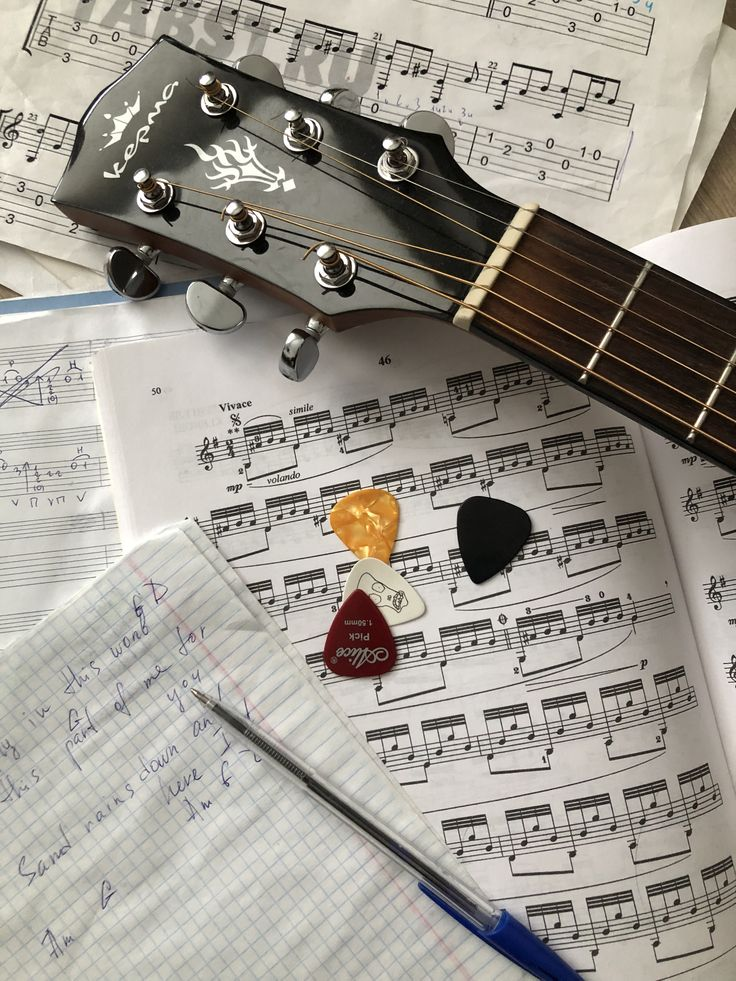
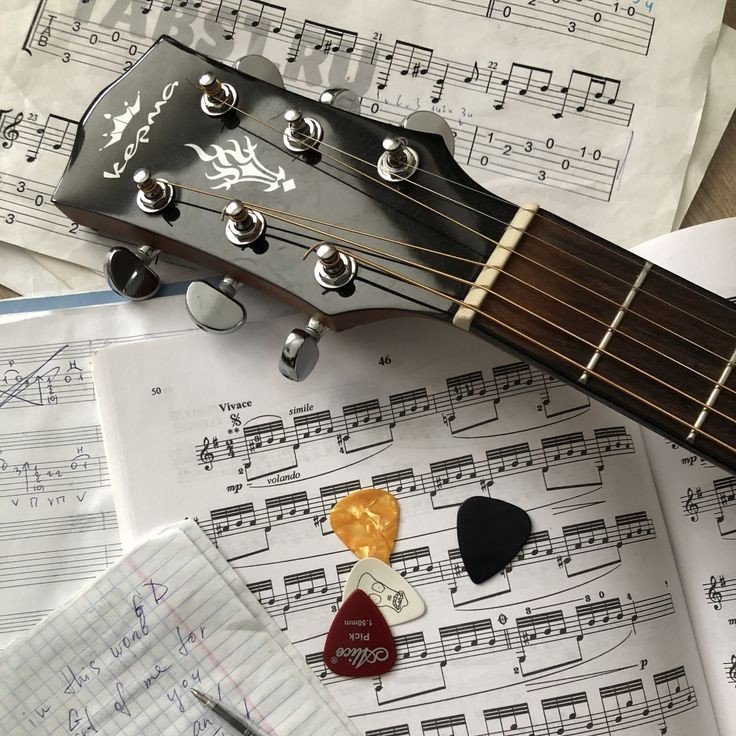
fixed images on homepage and added schedule page

diff --git a/guitarcoach/src/pages/SchedulePage.tsx b/guitarcoach/src/pages/SchedulePage.tsx
@@ -1,0 +1,98 @@
+import "../style/SchedulePage.css"
+
+function SchedulePage() {
+    return (
+        <div className="schedule-page">
+            <header className="schedule-header">
+                <div className="container">
+                    <div className="logo">
+                        GuitarCoach
+                    </div>
+                    <nav className='navbar'>
+                        <ul className='navbar-list'>
+                            <li><a href='/'>Coach</a></li>
+                            <li><a href='/'>Find Songs</a></li>
+                            <li><a href='/'>Tasks</a></li>
+                            <li>
+                                <button onClick={() => { window.location.href = '/profile'; }} className="profile-button">
+                                    Profile
+                                </button>
+                            </li>
+                        </ul>
+                    </nav>
+                </div>
+            </header>
+
+            <div className="schedule-container">
+                <h1 className="schedule-title"> Weekly Schedule </h1>
+                <div className="schedule-grid">
+                    <div className="day-column">
+                        <div className="day-title"> Sunday </div>
+                        <ul className="tasks-list">
+                            <li className="task-item"> Bar Chords </li>
+                            <li className="task-item"> Strumming Patterns </li>
+                        </ul>
+                    </div>
+
+                    <div className="day-column">
+                        <div className="day-title"> Monday </div>
+                        <ul className="tasks-list">
+                            <li className="task-item"> Bar Chords </li>
+                            <li className="task-item"> Strumming Patterns </li>
+                        </ul>
+                    </div>
+
+                    <div className="day-column">
+                        <div className="day-title"> Tuesday </div>
+                        <ul className="tasks-list">
+                            <li className="task-item"> Bar Chords </li>
+                            <li className="task-item"> Strumming Patterns </li>
+                        </ul>
+                    </div>
+
+                    <div className="day-column">
+                        <div className="day-title"> Wednesday </div>
+                        <ul className="tasks-list">
+                            <li className="task-item"> Bar Chords </li>
+                            <li className="task-item"> Strumming Patterns </li>
+                        </ul>
+                    </div>
+
+                    <div className="day-column">
+                        <div className="day-title"> Thursday </div>
+                        <ul className="tasks-list">
+                            <li className="task-item"> Bar Chords </li>
+                            <li className="task-item"> Strumming Patterns </li>
+                        </ul>
+                    </div>
+
+                    <div className="day-column">
+                        <div className="day-title"> Friday </div>
+                        <ul className="tasks-list">
+                            <li className="task-item"> Bar Chords </li>
+                            <li className="task-item"> Strumming Patterns </li>
+                        </ul>
+                    </div>
+
+                    <div className="day-column">
+                        <div className="day-title"> Saturday </div>
+                        <ul className="tasks-list">
+                            <li className="task-item"> Bar Chords </li>
+                            <li className="task-item"> Strumming Patterns </li>
+                        </ul>
+                    </div>
+                </div>
+            </div>
+
+            <footer className="schedule-footer">
+                <div className="footer-container">
+                    <div className="footer-section">
+                        <h3>Contact Us</h3>
+                    </div>
+                </div>
+            </footer>
+        </div>
+    )
+}
+
+export default SchedulePage

diff --git a/guitarcoach/src/style/HomePage.css b/guitarcoach/src/style/HomePage.css
@@ -79,9 +79,9 @@
     text-align: center;
 }
 
-.guitar1 {
+.home {
     height: auto;
-    width: 95%;
+    width: 97%;
     border-radius: 5px;
 }
 
@@ -93,12 +93,14 @@
     margin-top: 80px;
     font-size: 32px;
     font-weight: bold;
+    max-width: 400px;
 }
 
 .features-list {
     display: flex;
     gap: 80px;
     justify-content: center;
+    flex-wrap: wrap;
 }
 
 .feature-item {
@@ -111,11 +113,15 @@
     border-radius: 5px;
     display: flex;
     justify-content: center;
+    width: 500px;
+    height: 500px;
+    overflow: hidden;
 }
 
 .feature-item-photo img {
     height: auto;
     width: 100%;
+    object-fit: cover;
 }
 
 .feature-item-title {
@@ -130,6 +136,12 @@
     margin-top: 10px;
     font-size: 16px;
     justify-content: center;
-    width: auto;
-    max-width: 100%;
+    flex-wrap: wrap;
+    max-width: 500px;
+}
+
+.home-footer {
+    background-color: #f8f9fa;
+    padding: 50px 20px;
+    margin-top: 50px;
 }

diff --git a/guitarcoach/src/style/SchedulePage.css b/guitarcoach/src/style/SchedulePage.css
@@ -1,0 +1,51 @@
+* {
+    margin: 0;
+    padding: 0;
+    box-sizing: border-box;
+}
+
+.schedule-container {
+    max-width: 1400px;
+    margin: 0 auto;
+    background-color: white;
+    border-radius: 8px;
+    box-shadow: 0 2px 4px rgba(0,0,0,0.1);
+    overflow-x: auto;
+}
+
+.schedule-title {
+    text-align: center;
+}
+
+.schedule-grid {
+    display: grid;
+    grid-template-columns: repeat(7, 1fr);
+    min-width: 875px;
+}
+
+.day-column {
+    border: 1px solid #ddd;
+    padding: 10px;
+    border-right: 1px solid #e0e0e0;
+    min-height: 500px;
+}
+
+.day-title {
+    background-color: #f8f9fa;
+    padding: 16px;
+    font-weight: 600;
+    font-size: 1.1rem;
+    text-align: center;
+    border-bottom: 2px solid #e0e0e0;
+}
+
+.tasks-list {
+    padding: 16px
+}
+
+.tasks-list::before {
+    position: absolute;
+    left: 4px;
+    color: #666;
+    font-weight: bold;
+}

diff --git a/guitarcoach/src/pages/HomePage.tsx b/guitarcoach/src/pages/HomePage.tsx
@@ -75,7 +75,7 @@ function HomePage() {
                 </div> 
 
                 <div className='feature-item-body'>
-                  The quick brown fox jumped over the lazy river. Hello hi hey
+                  The quick brown fox jumped over the lazy river. Hello hi hey lebron james is the best hahahaha testing this if this wraps in the div
                 </div>
               </div>
 
@@ -95,6 +95,14 @@ function HomePage() {
             </div>
           </div>
         </main>
+
+        <footer className="home-footer">
+            <div className="footer-container">
+                <div className="footer-section">
+                    <div className="logo">Guitar Coach</div>
+                </div>
+            </div>
+        </footer>
     </>
   )
 }
